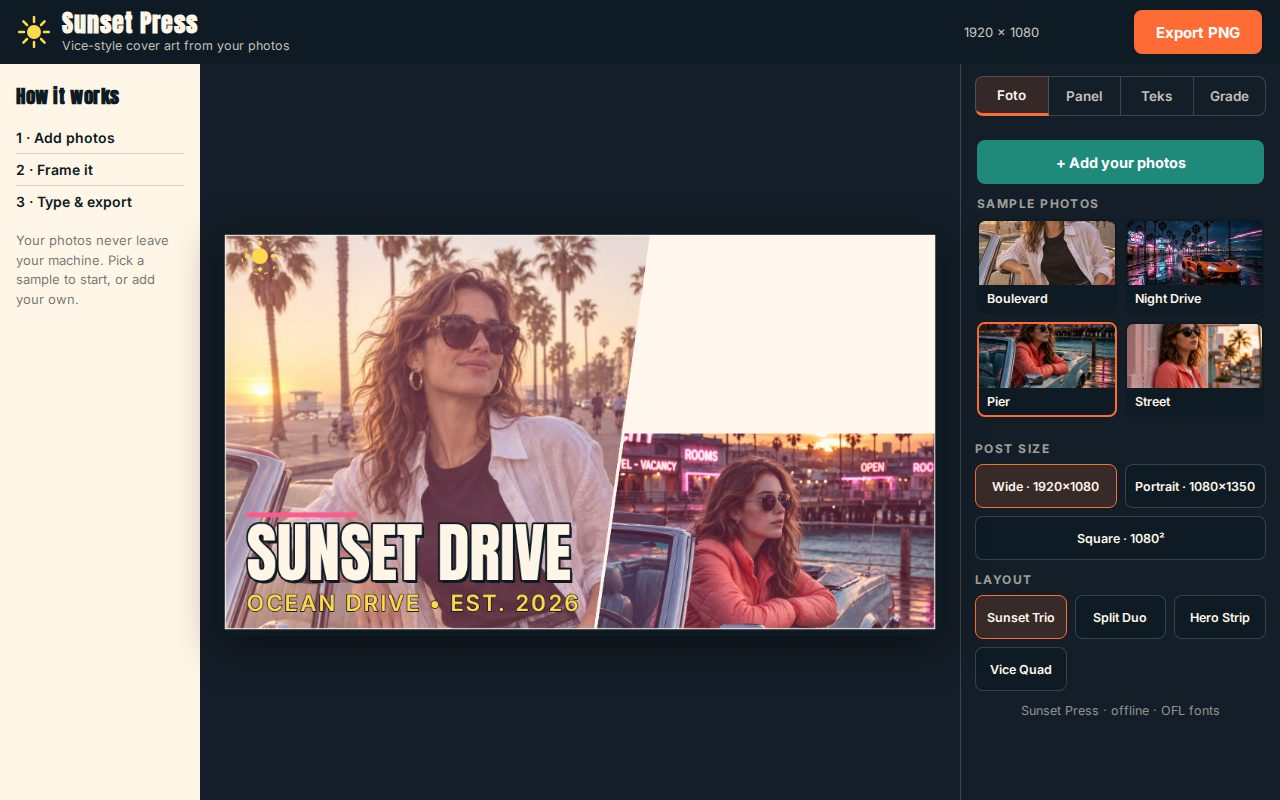
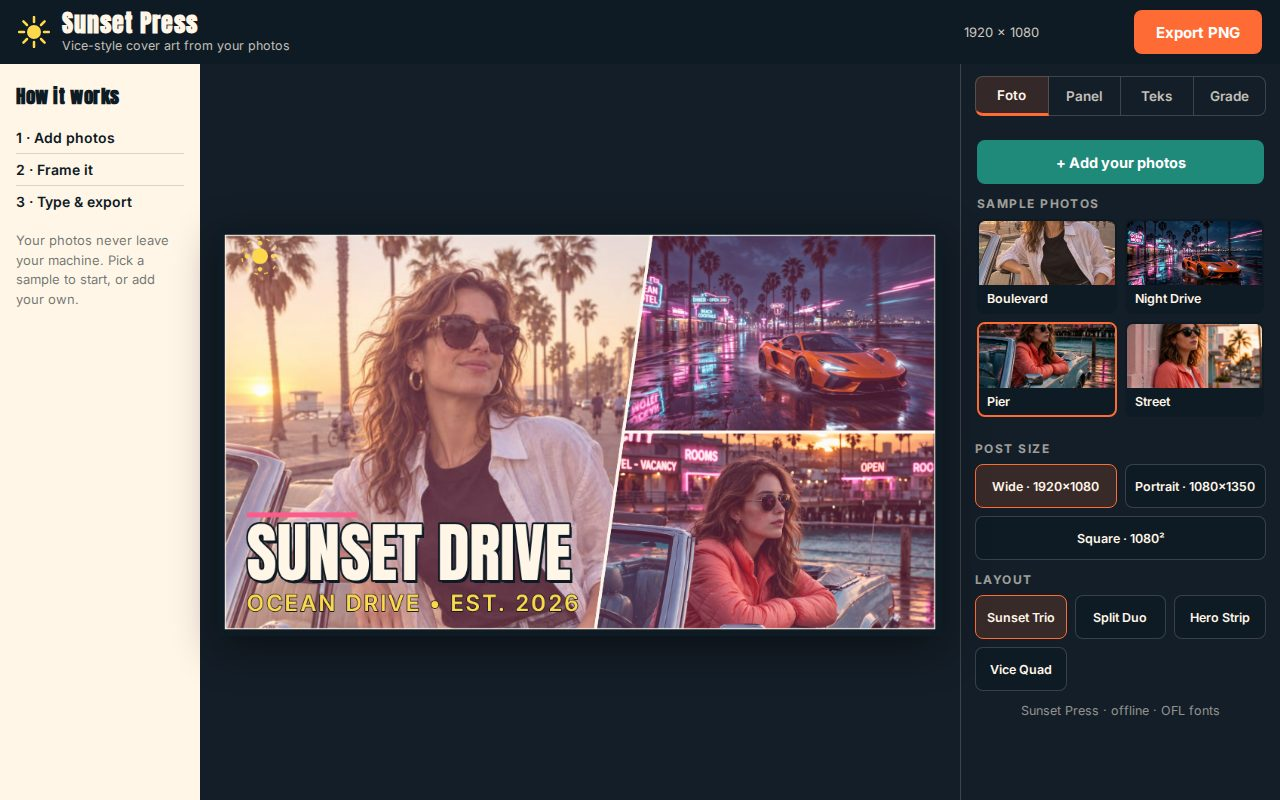
v7 iter3: editor staging fills all three panels (nightdrive top-right)
Self-gate iter2 FAIL: editor canvas showed a big empty paper panel
(top-right) because staging left slot 1 null. All three panels now
load; Pier stays selected on panel 3, hero stays Boulevard.

Changed region(s): [[0.4688, 0.2812, 0.75, 0.5625]]

diff --git a/app/src/shots.js b/app/src/shots.js
@@ -8,7 +8,7 @@ const STAGING = {
   cover: { sizeId: 'landscape', caption: 'SUNSET DRIVE', sub: 'OCEAN DRIVE • EST. 2026', panels: ['boulevard', 'nightdrive', 'pier'] },
   portrait: { sizeId: 'portrait', caption: 'NEON NIGHTS', sub: 'VICE CITY • EST. 2026', panels: ['boulevard', 'nightdrive', 'pier'] },
   square: { sizeId: 'square', caption: 'PALM DUSK', sub: 'PALMS MOTEL • VACANCY', panels: ['boulevard', 'nightdrive', 'pier'] },
-  editor: { sizeId: 'landscape', caption: 'SUNSET DRIVE', sub: 'OCEAN DRIVE • EST. 2026', panels: ['boulevard', null, 'pier'], selected: 2 },
+  editor: { sizeId: 'landscape', caption: 'SUNSET DRIVE', sub: 'OCEAN DRIVE • EST. 2026', panels: ['boulevard', 'nightdrive', 'pier'], selected: 2 },
 };
 
 export async function stageShot(state, api) {
